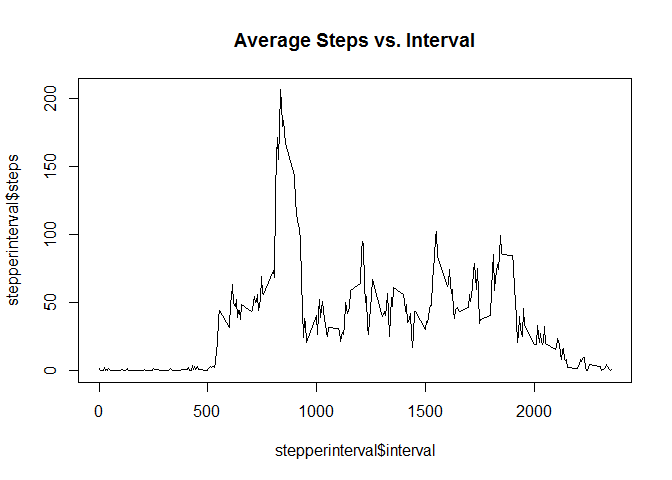
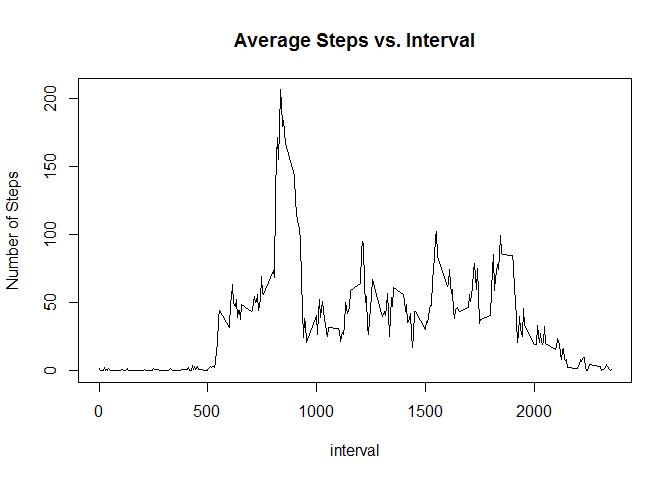
Completed assignment

Changed region(s): [[0.4062, 0.9062, 0.6562, 0.9688], [0.0, 0.3125, 0.0312, 0.6562]]

diff --git a/PA1_template.html b/PA1_template.html
@@ -80,8 +80,8 @@ names(stepperday)[2] = &quot;steps&quot;</code></pre>
 <pre class="r"><code>stepperinterval &lt;- aggregate(fitdata$steps, by = list(&quot;interval&quot; = fitdata$interval), mean, na.rm = TRUE)
 names(stepperinterval)[2] = &quot;steps&quot;</code></pre>
 <p>Let’s look at the aggregated data. We’ll plot a time series plot below with the five-minute intervals on the x-axis and the average number of steps across all days on the y-axis</p>
-<pre class="r"><code>plot(stepperinterval$interval, stepperinterval$steps, main = &quot;Average Steps vs. Interval&quot;, type = &quot;l&quot;)</code></pre>
[1 lines of base64/hex data omitted]
+<pre class="r"><code>plot(stepperinterval$interval, stepperinterval$steps, main = &quot;Average Steps vs. Interval&quot;, type = &quot;l&quot;, xlab = &quot;interval&quot;, ylab = &quot;Number of Steps&quot;)</code></pre>
[1 lines of base64/hex data omitted]
 <p>We see a peak of activity at around 0800-0900 hours, probably when this person gets up and goes about their morning routine. We see other peaks, suggestive of a routine that he / she follows. The period of maximum activity can be found simply with the following code bit:</p>
 <pre class="r"><code>stepperinterval[stepperinterval$step == max(stepperinterval$step), 1]</code></pre>
 <pre><code>## [1] 835</code></pre>
@@ -103,8 +103,8 @@ for(i in 1:dim(imputeddata)[1]) {
 <pre class="r"><code>stepperday2 &lt;- aggregate(imputeddata$steps, by = list(&quot;date&quot; = imputeddata$date), 
                          sum, na.rm = TRUE)
 names(stepperday2)[2] = &quot;steps&quot;
-hist(stepperday$steps)</code></pre>
[1 lines of base64/hex data omitted]
+hist(stepperday$steps, main = &quot;Total Steps per Day&quot;, xlab = &quot;Steps&quot;)</code></pre>
[1 lines of base64/hex data omitted]
 <p>The general distribution is unchanged. Does the mean or median change? Let’s compare the new and the original data</p>
 <pre class="r"><code>mean(stepperday2$steps)</code></pre>
 <pre><code>## [1] 10766.19</code></pre>
@@ -132,7 +132,7 @@ weekends &lt;- stepperinterval2[stepperinterval2$Day == 'weekend',]</code></pre>
 plot(weekdays$interval, weekdays$steps, main = &quot;Weekdays&quot;, type = &quot;l&quot;, xlab = &quot;interval&quot;, ylab = &quot;Number of Steps&quot;)
 plot(weekends$interval, weekends$steps, main = &quot;Weekends&quot;, type = &quot;l&quot;, xlab = &quot;interval&quot;, ylab = &quot;Number of Steps&quot;)</code></pre>
[1 lines of base64/hex data omitted]
-<p>We see this person seems to be more active on weekends and wakes up slightly later.</p>
+<p>We see this person seems to be more active on weekends and wakes up slightly later on weekends, which seems reasonable.</p>
 </div>
 
 

diff --git a/PA1_template.md b/PA1_template.md
@@ -57,7 +57,7 @@ Let's look at the aggregated data. We'll plot a time series plot below with the 
 
 
 ```r
-plot(stepperinterval$interval, stepperinterval$steps, main = "Average Steps vs. Interval", type = "l")
+plot(stepperinterval$interval, stepperinterval$steps, main = "Average Steps vs. Interval", type = "l", xlab = "interval", ylab = "Number of Steps")
 ```
 
 ![](./PA1_template_files/figure-html/unnamed-chunk-5-1.png) 
@@ -106,7 +106,7 @@ We will repeat the analysis done in part one with the new data.
 stepperday2 <- aggregate(imputeddata$steps, by = list("date" = imputeddata$date), 
                          sum, na.rm = TRUE)
 names(stepperday2)[2] = "steps"
-hist(stepperday$steps)
+hist(stepperday$steps, main = "Total Steps per Day", xlab = "Steps")
 ```
 
 ![](./PA1_template_files/figure-html/unnamed-chunk-9-1.png) 
@@ -173,4 +173,4 @@ plot(weekends$interval, weekends$steps, main = "Weekends", type = "l", xlab = "i
 
 ![](./PA1_template_files/figure-html/unnamed-chunk-12-1.png) 
 
-We see this person seems to be more active on weekends and wakes up slightly later.
+We see this person seems to be more active on weekends and wakes up slightly later on weekends, which seems reasonable.
